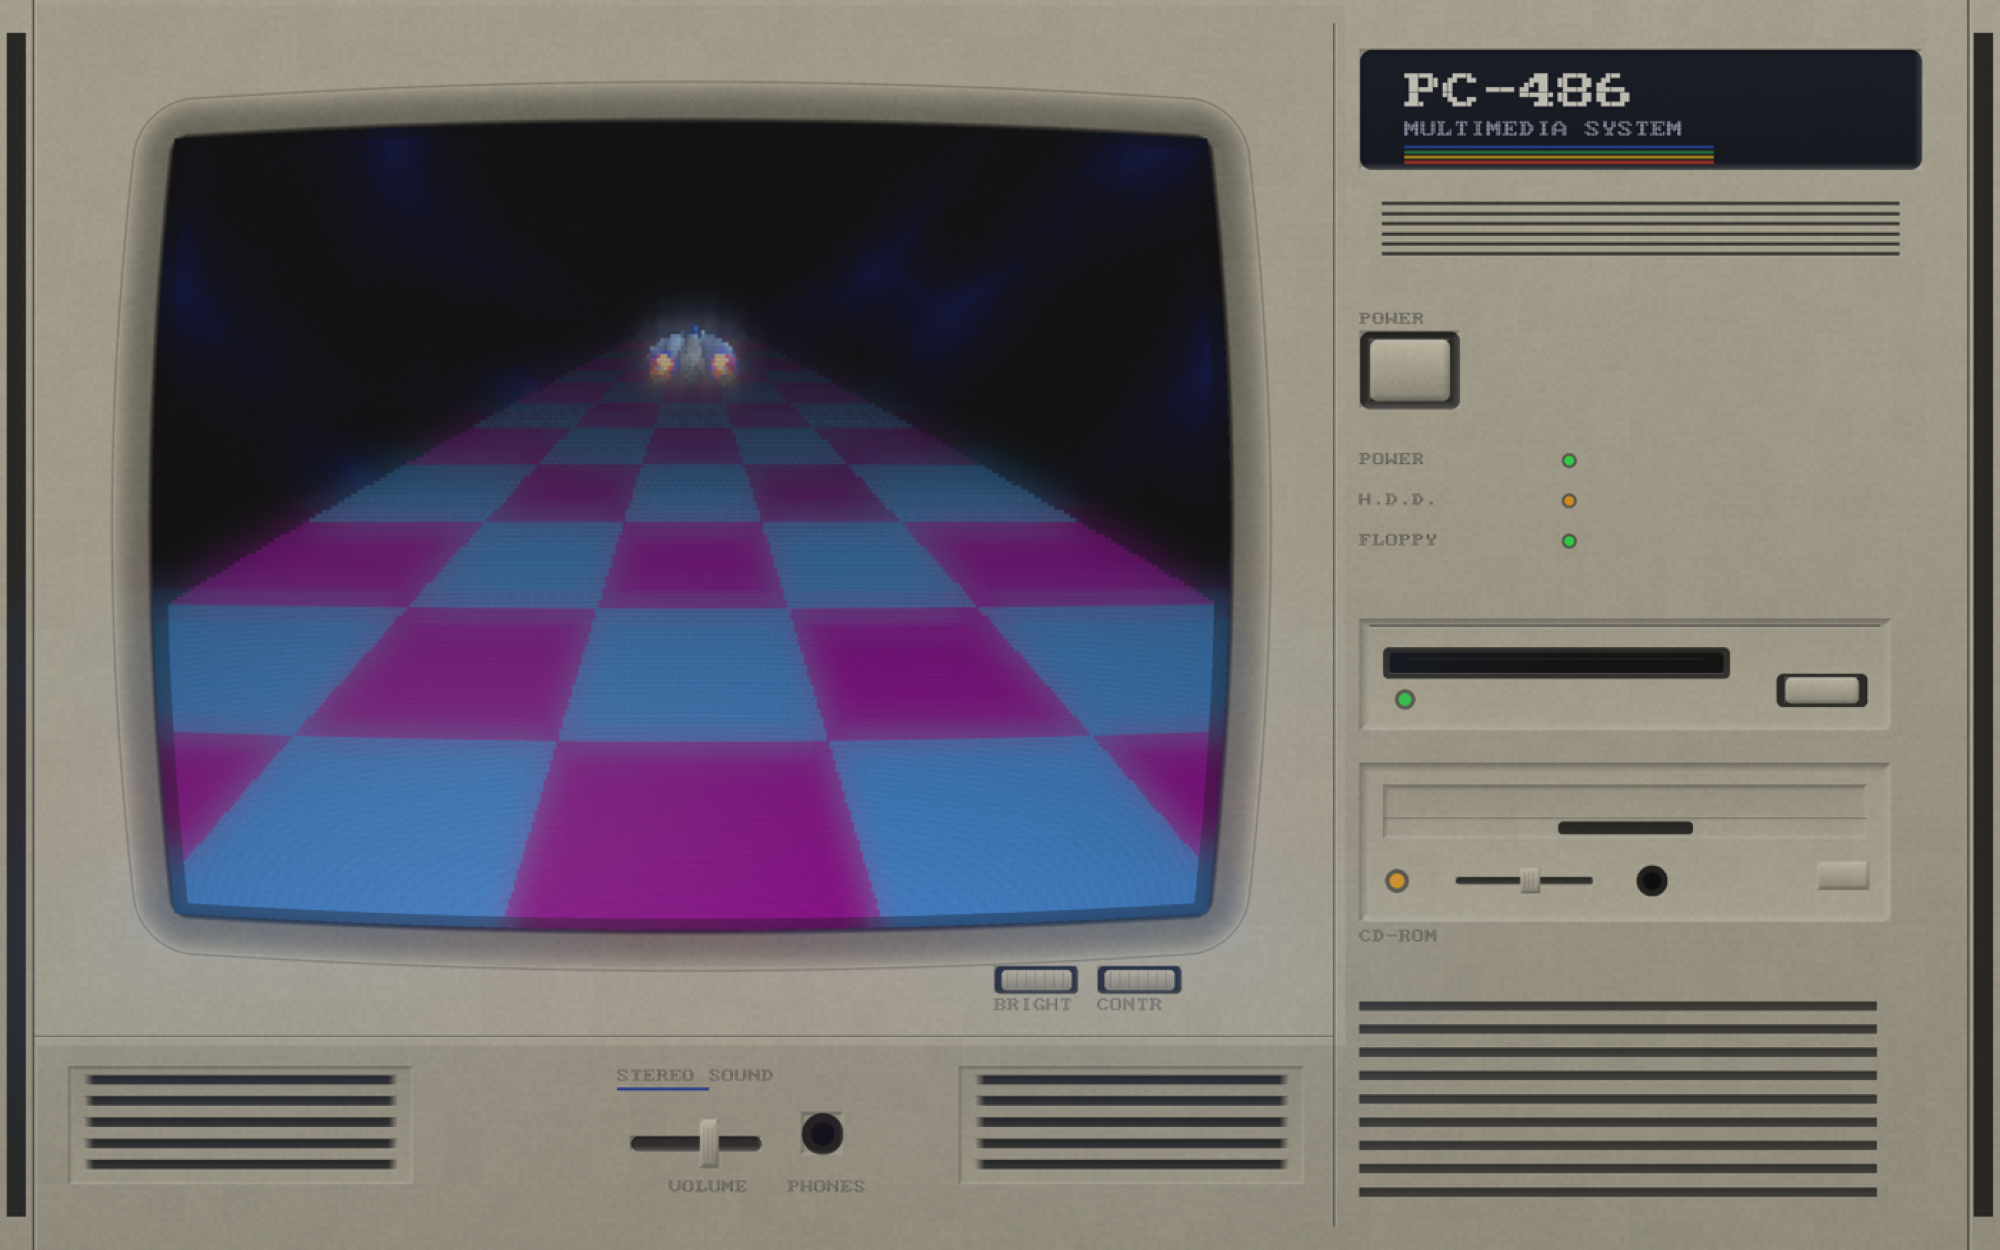
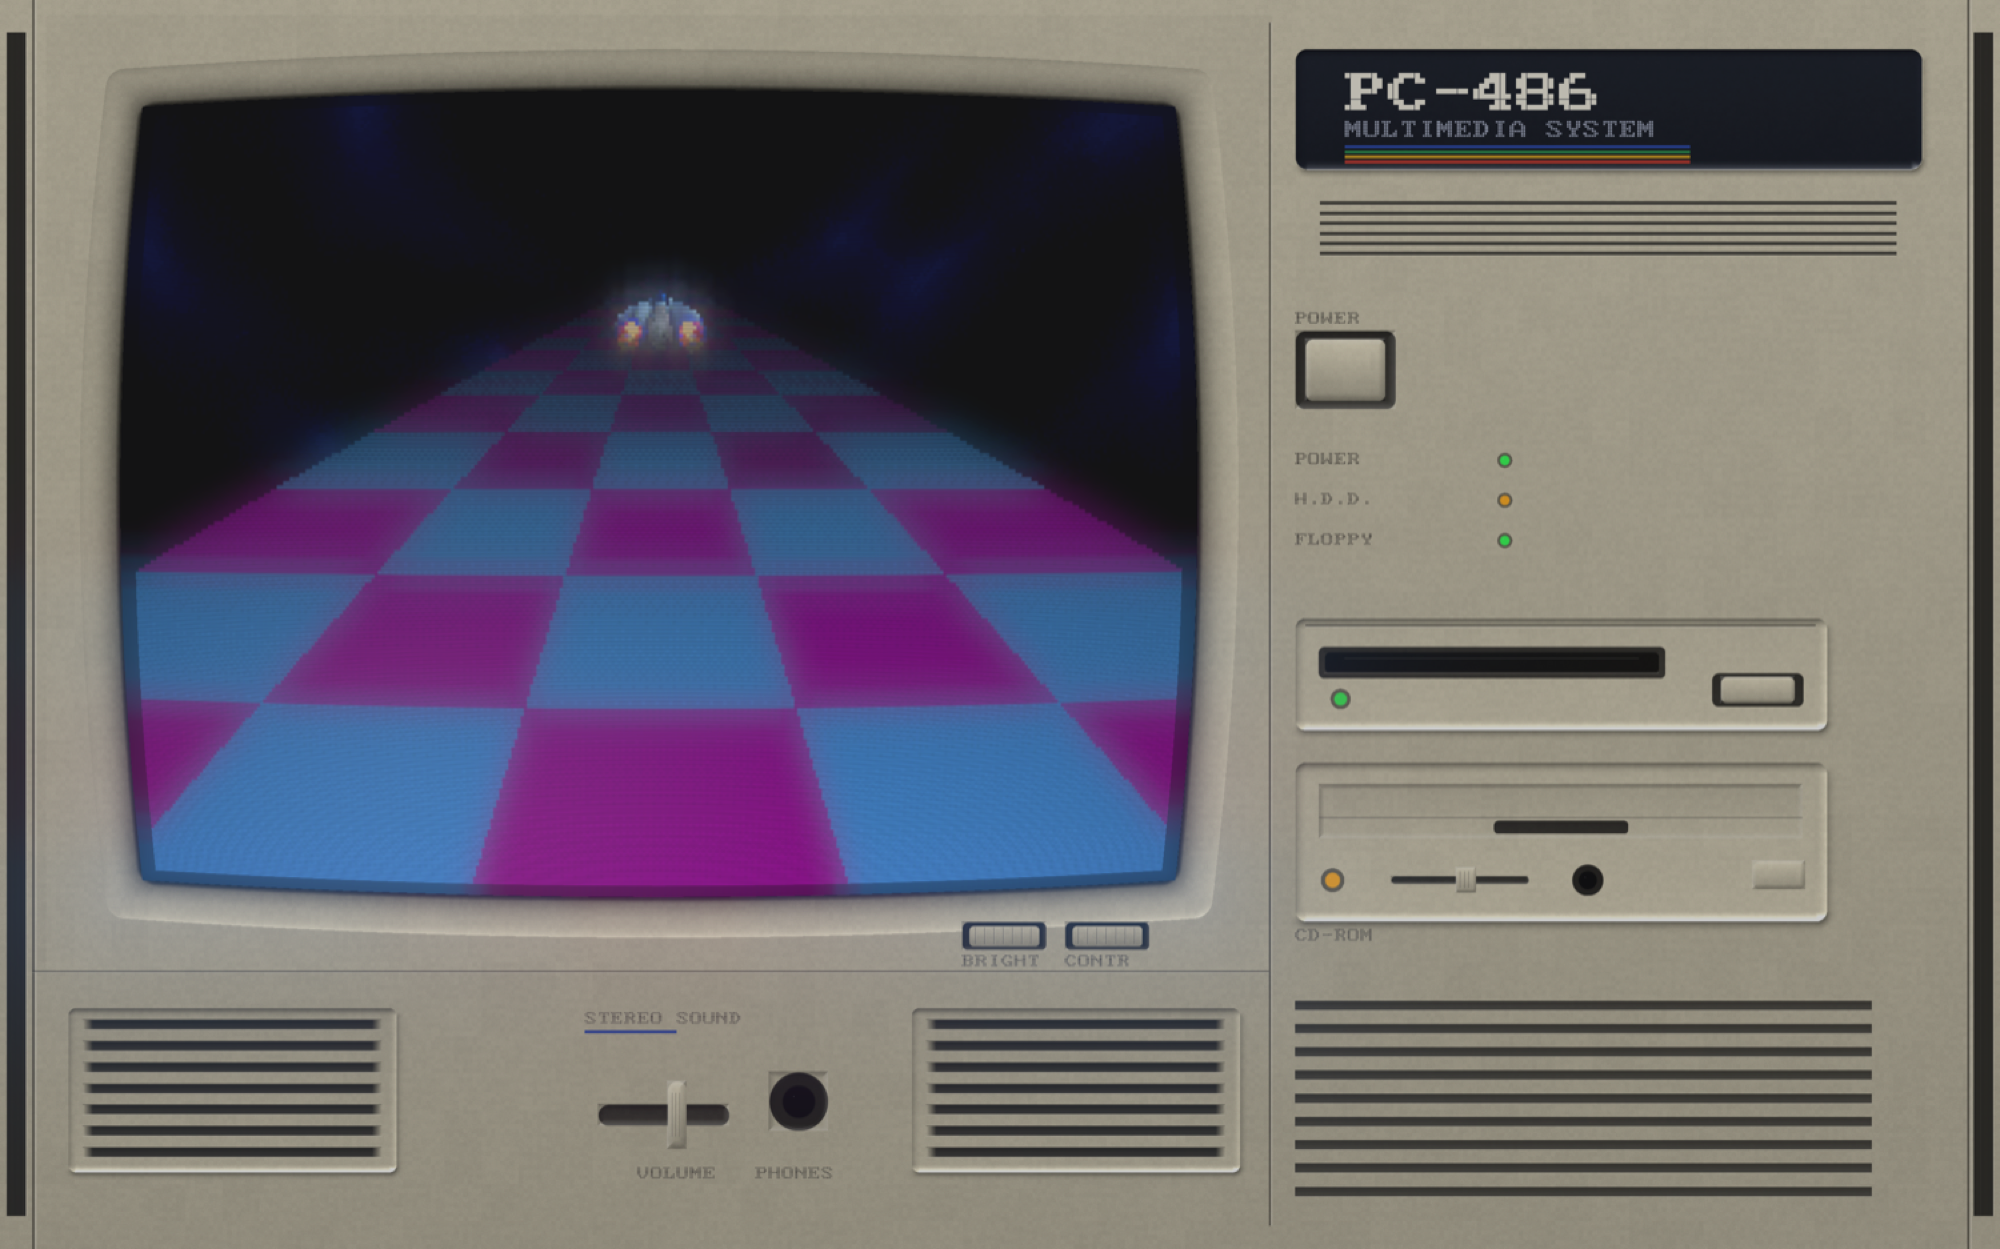
feat: implement realistic monitor chassis shading and geometry with custom housing edges

diff --git a/src/chassis.c b/src/chassis.c
@@ -16,8 +16,11 @@
 #define TUBE_H_FRAC 0.66f
 
 #define BEZEL_BAND    0.056f   /* dished part, next to the glass          */
-#define BEZEL_HOUSING 0.135f   /* full surround depth beyond the picture   */
-#define BEZEL_R_OUT   0.036f   /* housing outer corner - tighter than the  */
+#define BEZEL_HOUSING 0.095f   /* full surround depth beyond the picture   */
+#define BEZEL_R_MID   0.022f   /* where the dished band meets the flat     */
+                               /* moulding face - its OWN radius, not      */
+                               /* R_IN + BAND, which forced a huge curve   */
+#define BEZEL_R_OUT   0.006f   /* housing outer corner - tighter than the  */
                                /* aperture, so the moulding reads crisp    */
 #define BEZEL_R_IN    0.018f   /* aperture corner ON TOP of the barrel:    */
                                /* the curvature already rounds the corners, */
@@ -125,9 +128,11 @@ static void led(canvas *c,float cx,float cy,float rad,int r,int g,int b){
 
 /* A grille is a recessed WELL with a moulded lip, and slots inside it with
  * real cross-section: dark trough, lit lower lip, shadowed upper lip. */
+static void housing_edge(canvas *c,float x,float y,float w,float h,float r,
+                         float ew,float shadow,int raised);
 static void grille_panel(canvas *c,float x,float y,float w,float h,float pitch){
-    rrect(c,x,y,w,h,h*0.045f,PLASTIC_R,PLASTIC_G,PLASTIC_B,0.88f,0.95f);
-    bevel(c,x,y,w,h,fmaxf(1.5f,h*0.030f),0);
+    rrect(c,x,y,w,h,h*0.045f,PLASTIC_R,PLASTIC_G,PLASTIC_B,0.90f,0.96f);
+    housing_edge(c,x,y,w,h,h*0.045f,fmaxf(2.0f,h*0.055f),fmaxf(2.0f,h*0.05f),0);
     float ix=x+w*0.045f, iy=y+h*0.075f, iw=w*0.91f, ih=h*0.85f;
     if(pitch<3.0f) pitch=3.0f;
     float slot=fmaxf(1.5f,pitch*0.46f);
@@ -201,8 +206,8 @@ static void thumbwheel(canvas *c,float x,float y,float w,float h){
 /* 3.5" drive: face plate, slotted door with a steel shutter lip, sprung
  * eject button in its own recess, activity LED in a moulded well. */
 static void floppy_drive(canvas *c,float x,float y,float w,float h){
-    rrect(c,x,y,w,h,h*0.09f,PLASTIC_R,PLASTIC_G,PLASTIC_B,0.97f,1.03f);
-    bevel(c,x,y,w,h,fmaxf(1.5f,h*0.08f),0);
+    rrect(c,x,y,w,h,h*0.09f,PLASTIC_R,PLASTIC_G,PLASTIC_B,0.99f,1.04f);
+    housing_edge(c,x,y,w,h,h*0.09f,fmaxf(2.0f,h*0.10f),fmaxf(2.0f,h*0.09f),0);
     seam(c,x+w*0.02f,y+h*0.06f,w*0.96f,0,fmaxf(1.0f,h*0.02f));
     /* the disk slot: recess, then the drive door behind it */
     float sx=x+w*0.055f, sy=y+h*0.30f, sw=w*0.63f, sh=h*0.19f;
@@ -225,8 +230,8 @@ static void floppy_drive(canvas *c,float x,float y,float w,float h){
 /* CD-ROM: taller face, tray seam with a finger recess, its own volume and
  * headphone jack — which is exactly what these drives had. */
 static void cd_drive(canvas *c,float x,float y,float w,float h,float lbl){
-    rrect(c,x,y,w,h,h*0.07f,PLASTIC_R,PLASTIC_G,PLASTIC_B,0.97f,1.03f);
-    bevel(c,x,y,w,h,fmaxf(1.5f,h*0.055f),0);
+    rrect(c,x,y,w,h,h*0.07f,PLASTIC_R,PLASTIC_G,PLASTIC_B,0.99f,1.04f);
+    housing_edge(c,x,y,w,h,h*0.07f,fmaxf(2.0f,h*0.075f),fmaxf(2.0f,h*0.07f),0);
     float tx=x+w*0.045f, ty=y+h*0.14f, tw=w*0.91f, th=h*0.34f;
     rrect(c,tx,ty,tw,th,th*0.12f,PLASTIC_R,PLASTIC_G,PLASTIC_B,0.92f,1.00f);
     bevel(c,tx,ty,tw,th,fmaxf(1.0f,th*0.10f),0);
@@ -285,45 +290,165 @@ dxm_layout chassis_layout(int W,int H){
  * shader samples in (crt.h), so the opening follows the glass curvature and
  * carries a realistic corner radius at the same time. */
 
-/* signed distance to the aperture, in pixels; <=0 is glass */
-static float aperture_sd(const dxm_layout *L,float px,float py,float rin){
+/* One light, from above and slightly left, as in the reference photo.  y runs
+ * DOWN in canvas space, so "up" is negative y. */
+#define LIGHT_X (-0.42f)
+#define LIGHT_Y (-0.91f)
+
+/* signed distance to a rounded rect; negative inside */
+static float rr_sd(float px,float py,float cx,float cy,float hw,float hh,float r){
+    float qx=fabsf(px-cx)-(hw-r), qy=fabsf(py-cy)-(hh-r);
+    float ax=fmaxf(qx,0.0f), ay=fmaxf(qy,0.0f);
+    return sqrtf(ax*ax+ay*ay)+fminf(fmaxf(qx,qy),0.0f)-r;
+}
+/* read-modify-write: scale a pixel and add a specular term */
+static void px_shade(canvas *c,int x,int y,float mul,float spec){
+    if(x<0||y<0||x>=c->w||y>=c->h) return;
+    uint8_t *p=c->px+((size_t)y*c->w+x)*4;
+    for(int k=0;k<3;k++){
+        float v=p[k]*mul+spec*255.0f;
+        p[k]=(uint8_t)(v<0?0:v>255?255:v);
+    }
+}
+
+/* Rounded box evaluated in the warped space, with its own corner radius and
+ * an outward offset.  Two of these define the band: the aperture at offset 0,
+ * and the band's outer boundary at offset = band width.  Giving that second
+ * curve its own radius is the point - deriving it as a uniform offset of the
+ * aperture forces its corner to be R_IN + BAND, which is far too round. */
+static float warped_rr_sd(const dxm_layout *L,float px,float py,
+                          float r,float grow){
     float tx=(px-L->tube_x)/L->tube_w, ty=(py-L->tube_y)/L->tube_h;
     float bx,by; barrel_cpu(tx,ty,DXM_WARP,&bx,&by);
     float ax=fabsf(bx*2.0f-1.0f)*L->tube_w*0.5f;   /* px from centre */
     float ay=fabsf(by*2.0f-1.0f)*L->tube_h*0.5f;
-    float hw=L->tube_w*0.5f, hh=L->tube_h*0.5f;
-    float qx=ax-(hw-rin), qy=ay-(hh-rin);
-    if(qx>0.0f && qy>0.0f) return sqrtf(qx*qx+qy*qy)-rin;
+    float hw=L->tube_w*0.5f+grow, hh=L->tube_h*0.5f+grow;
+    float qx=ax-(hw-r), qy=ay-(hh-r);
+    if(qx>0.0f && qy>0.0f) return sqrtf(qx*qx+qy*qy)-r;
     return fmaxf(ax-hw, ay-hh);
 }
+/* signed distance to the aperture, in pixels; <=0 is glass */
+static float aperture_sd(const dxm_layout *L,float px,float py,float rin){
+    return warped_rr_sd(L,px,py,rin,0.0f);
+}
 
-static void bezel(canvas *c,const dxm_layout *L,float bz,float rin){
-    float m=bz*2.6f;
+/* The housing's outer edge: a rolled lip that catches a hard specular line
+ * along the top and upper-left, falls into shadow along the bottom, and casts
+ * a soft contact shadow onto the flat case beneath it.  This is what gives
+ * the monitor its depth against the rest of the machine. */
+static void housing_edge(canvas *c,float x,float y,float w,float h,float r,
+                         float ew,float shadow,int raised){
+    float cx=x+w*0.5f, cy=y+h*0.5f, hw=w*0.5f, hh=h*0.5f;
+    float m=ew+shadow+2.0f;
+    for(int j=(int)(y-m);j<(int)(y+h+m);j++)
+      for(int i=(int)(x-m);i<(int)(x+w+m);i++){
+        float sd=rr_sd((float)i,(float)j,cx,cy,hw,hh,r);
+        if(sd<-ew || sd>shadow) continue;
+        float gx=rr_sd((float)i+1,(float)j,cx,cy,hw,hh,r)
+                -rr_sd((float)i-1,(float)j,cx,cy,hw,hh,r);
+        float gy=rr_sd((float)i,(float)j+1,cx,cy,hw,hh,r)
+                -rr_sd((float)i,(float)j-1,cx,cy,hw,hh,r);
+        float gl=sqrtf(gx*gx+gy*gy); if(gl<1e-4f) continue;
+        float nx=gx/gl, ny=gy/gl;              /* points OUT of the housing */
+        float lam=(nx*LIGHT_X+ny*LIGHT_Y)*(raised?1.0f:-1.0f);
+        if(sd<=0.0f){
+            /* the rolled lip itself */
+            float t=-sd/ew;                     /* 0 at the very edge */
+            float prof=(1.0f-t)*(1.0f-t);
+            float mul=1.0f+lam*prof*0.50f;
+            float sp=fmaxf(lam,0.0f);
+            /* the shine: a hard, narrow catch along the top of the roll */
+            px_shade(c,i,j,mul,powf(sp,10.0f)*prof*0.52f);
+        } else {
+            /* contact shadow cast onto the case, opposite the light */
+            float t=sd/shadow;
+            float occl=fmaxf(raised?-lam:lam,0.0f);
+            px_shade(c,i,j,1.0f-occl*(1.0f-t)*(1.0f-t)*0.46f,0.0f);
+        }
+      }
+}
+
+static void bezel(canvas *c,const dxm_layout *L,float bz,float rin,float rmid){
+    float m=bz*1.20f;   /* the band only - see below */
     for(int j=(int)(L->tube_y-m);j<(int)(L->tube_y+L->tube_h+m);j++)
       for(int i=(int)(L->tube_x-m);i<(int)(L->tube_x+L->tube_w+m);i++){
         float d=aperture_sd(L,(float)i,(float)j,rin);
         if(d<=0.0f) continue;                    /* glass: the shader owns it */
-        float t=d/bz;
-        float sh;
-        if(t<1.0f){
-            /* the band is a distinctly darker grey ring than the housing
-             * face, sloping up out of the glass - in the reference it reads
-             * as its own surface, not as a shadow */
-            sh=0.66f+0.34f*t*t*(0.55f+0.45f*t);
-            if(t<0.14f) sh-=0.24f*(1.0f-t/0.14f);
-            if(t>0.92f) sh+=0.10f*(t-0.92f)/0.08f;   /* lit lip at the housing */
-        } else sh=1.00f;
+        float dout=warped_rr_sd(L,(float)i,(float)j,rmid,bz);
+        if(dout>=0.0f) continue;                 /* past the band: flat face */
+        float t=d/fmaxf(d-dout,1e-3f);           /* 0 at glass, 1 at the edge */
+        float sh, spec=0.0f;
+        {
+            /* The reveal is a WALL, not a dome.  Every point on it faces the
+             * light at the same angle, so its tone is essentially CONSTANT
+             * across the wall - dark all the way down on the shadowed side,
+             * light all the way down on the lit side.  Shading it as a ramp
+             * from the shoulder to the glass is what made it read as a raised
+             * rounded lip instead of a deep recess. */
+            float gx=aperture_sd(L,(float)i+1,(float)j,rin)
+                    -aperture_sd(L,(float)i-1,(float)j,rin);
+            float gy=aperture_sd(L,(float)i,(float)j+1,rin)
+                    -aperture_sd(L,(float)i,(float)j-1,rin);
+            float gl=sqrtf(gx*gx+gy*gy);
+            float lam=0.0f;
+            if(gl>1e-4f){
+                /* the wall climbs away from the glass, so it faces back
+                 * toward the aperture: normal = -gradient */
+                float nx=-gx/gl, ny=-gy/gl;
+                lam=nx*LIGHT_X+ny*LIGHT_Y;
+            }
+            /* Measured off the reference: its moulding is essentially the
+             * SAME tone on all four sides (~160-175 of 255), with the depth
+             * carried almost entirely by a dark contact band at the glass.
+             * A strong directional term makes the top read as a recess and
+             * the other three sides read wrong, because it darkens one side
+             * while brightening the opposite one. Keep it subtle. */
+            sh = 1.00f + lam*0.07f;
+            float k=1.0f-t;                   /* 1 at the glass, 0 at shoulder */
+            sh *= 1.0f - 0.52f*k*k*(0.55f+0.45f*k);
+        }
         float n=plastic_tex(i,j);
         float a=(d<1.3f)?d/1.3f:1.0f;
-        px_blend(c,i,j,(int)(PLASTIC_R*(sh+n)),(int)(PLASTIC_G*(sh+n)),
-                 (int)(PLASTIC_B*(sh+n)),a);
+        px_blend(c,i,j,(int)(PLASTIC_R*(sh+n)+spec*255.0f),
+                     (int)(PLASTIC_G*(sh+n)+spec*255.0f),
+                     (int)(PLASTIC_B*(sh+n)+spec*255.0f),a);
         /* the glass sits below the moulding: a real shadow, scaled to the
          * bezel so it survives at any resolution instead of being 2px */
         float rw=fmaxf(2.0f,bz*0.13f);
         if(d<rw) px_blend(c,i,j,8,8,7,0.70f*(1.0f-d/rw));
-        /* crisp step where the band meets the housing face */
-        float lw=fmaxf(1.0f,bz*0.045f);
-        if(fabsf(d-bz)<lw) px_blend(c,i,j,60,57,51,0.40f*(1.0f-fabsf(d-bz)/lw));
+
+      }
+    /* ---- the reveal SHOULDER ----
+     * Where the dished reveal rolls back up onto the flat moulding face.
+     * It is a convex fillet, so with the light above it takes a hard catch
+     * along the top and drops into shadow along the bottom.  This is the
+     * edge that gives the bezel its depth; putting the highlight out at the
+     * chassis boundary instead was simply the wrong edge. */
+    float fw=fmaxf(2.0f,bz*0.30f);
+    for(int j=(int)(L->tube_y-m);j<(int)(L->tube_y+L->tube_h+m);j++)
+      for(int i=(int)(L->tube_x-m);i<(int)(L->tube_x+L->tube_w+m);i++){
+        if(aperture_sd(L,(float)i,(float)j,rin)<=0.0f) continue;
+        float dq=warped_rr_sd(L,(float)i,(float)j,rmid,bz);
+        /* ONLY between the shoulder and the glass.  This used to run to
+         * +fw as well, putting the highlight on the flat moulding face
+         * outside the reveal - the flat face must stay uniform. */
+        if(dq>0.0f || dq<-fw) continue;
+        float gx=warped_rr_sd(L,(float)i+1,(float)j,rmid,bz)
+                -warped_rr_sd(L,(float)i-1,(float)j,rmid,bz);
+        float gy=warped_rr_sd(L,(float)i,(float)j+1,rmid,bz)
+                -warped_rr_sd(L,(float)i,(float)j-1,rmid,bz);
+        float gl=sqrtf(gx*gx+gy*gy); if(gl<1e-4f) continue;
+        /* A recessed shoulder catches the light on the side FACING the
+         * light source - the BOTTOM shoulder, whose fillet tilts up toward
+         * it.  The top shoulder shades itself.  So the shine follows the
+         * inward normal, not the outward one. */
+        float nx=-gx/gl, ny=-gy/gl;        /* inward, toward the glass */
+        float lam=nx*LIGHT_X+ny*LIGHT_Y;
+        float prof=1.0f+dq/fw;          /* 1 at the shoulder, 0 into the wall */
+        prof*=prof;
+        float sp=fmaxf(lam,0.0f);
+        /* the shoulder is a soft break, not a chrome edge */
+        px_shade(c,i,j,1.0f+lam*prof*0.10f,powf(sp,9.0f)*prof*0.10f);
       }
 }
 
@@ -347,9 +472,11 @@ uint8_t *chassis_render(const dxm_layout *L,int W,int H){
     float rin=L->tube_h*BEZEL_R_IN, rout=L->tube_h*BEZEL_R_OUT;
     float sx=L->tube_x-hous, sy=L->tube_y-hous;
     float sw=L->tube_w+hous*2.0f, sh2=L->tube_h+hous*2.0f;
-    rrect(c,sx,sy,sw,sh2,rout,PLASTIC_R,PLASTIC_G,PLASTIC_B,1.00f,0.95f);
-    bevel(c,sx,sy,sw,sh2,fmaxf(1.5f,hous*0.10f),1);
-    bezel(c,L,bz,rin);
+    rrect(c,sx,sy,sw,sh2,rout,PLASTIC_R,PLASTIC_G,PLASTIC_B,1.00f,0.96f);
+    /* The shine belongs on the REVEAL SHOULDER, not out here where the
+     * moulding meets the flat chassis - that boundary is nearly flush and
+     * should barely register.  bezel() lights the shoulder itself. */
+    bezel(c,L,bz,rin,L->tube_h*BEZEL_R_MID);
     for(int j=(int)(L->tube_y-hous);j<(int)(L->tube_y+L->tube_h+hous);j++)
       for(int i=(int)(L->tube_x-hous);i<(int)(L->tube_x+L->tube_w+hous);i++)
         if(aperture_sd(L,(float)i,(float)j,rin)<=0.0f) px_set(c,i,j,5,6,5);
@@ -372,7 +499,8 @@ uint8_t *chassis_render(const dxm_layout *L,int W,int H){
 
     float pbh=fminf(L->tube_h*0.150f,bayw*0.30f);
     rrect(c,bayx,inset*0.75f,bayw,pbh,pbh*0.10f,0x22,0x26,0x30,1.0f,0.82f);
-    bevel(c,bayx,inset*0.75f,bayw,pbh,fmaxf(1.5f,pbh*0.06f),0);
+    housing_edge(c,bayx,inset*0.75f,bayw,pbh,pbh*0.10f,
+                 fmaxf(2.0f,pbh*0.09f),fmaxf(2.0f,pbh*0.08f),0);
     { float s=fminf(fmaxf(1.0f,bayw/170.0f),pbh/30.0f);
       text(c,bayx+bayw*0.08f,inset*0.75f+pbh*0.20f,"PC-486",s*1.45f,0xEC,0xE8,0xDC);
       text(c,bayx+bayw*0.08f,inset*0.75f+pbh*0.60f,"MULTIMEDIA SYSTEM",s*0.62f,0xA8,0xB0,0xC6);
